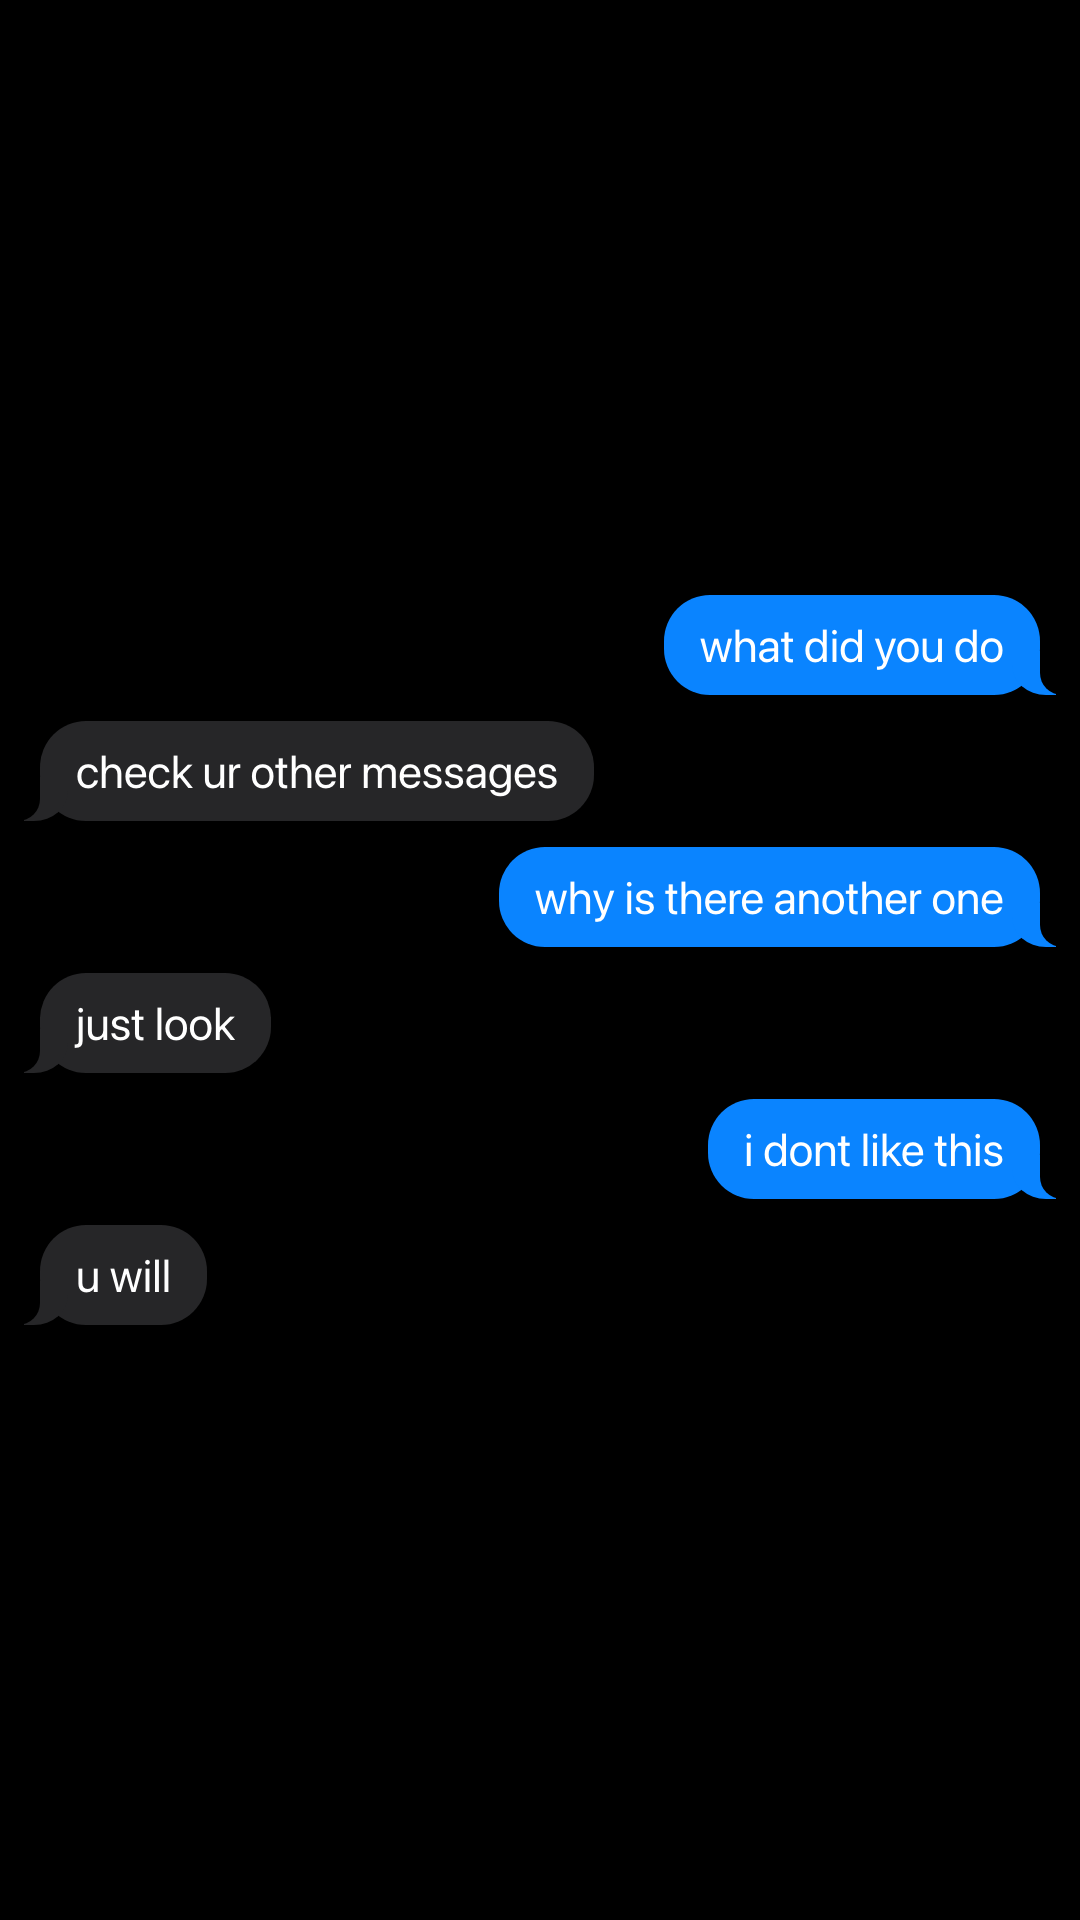
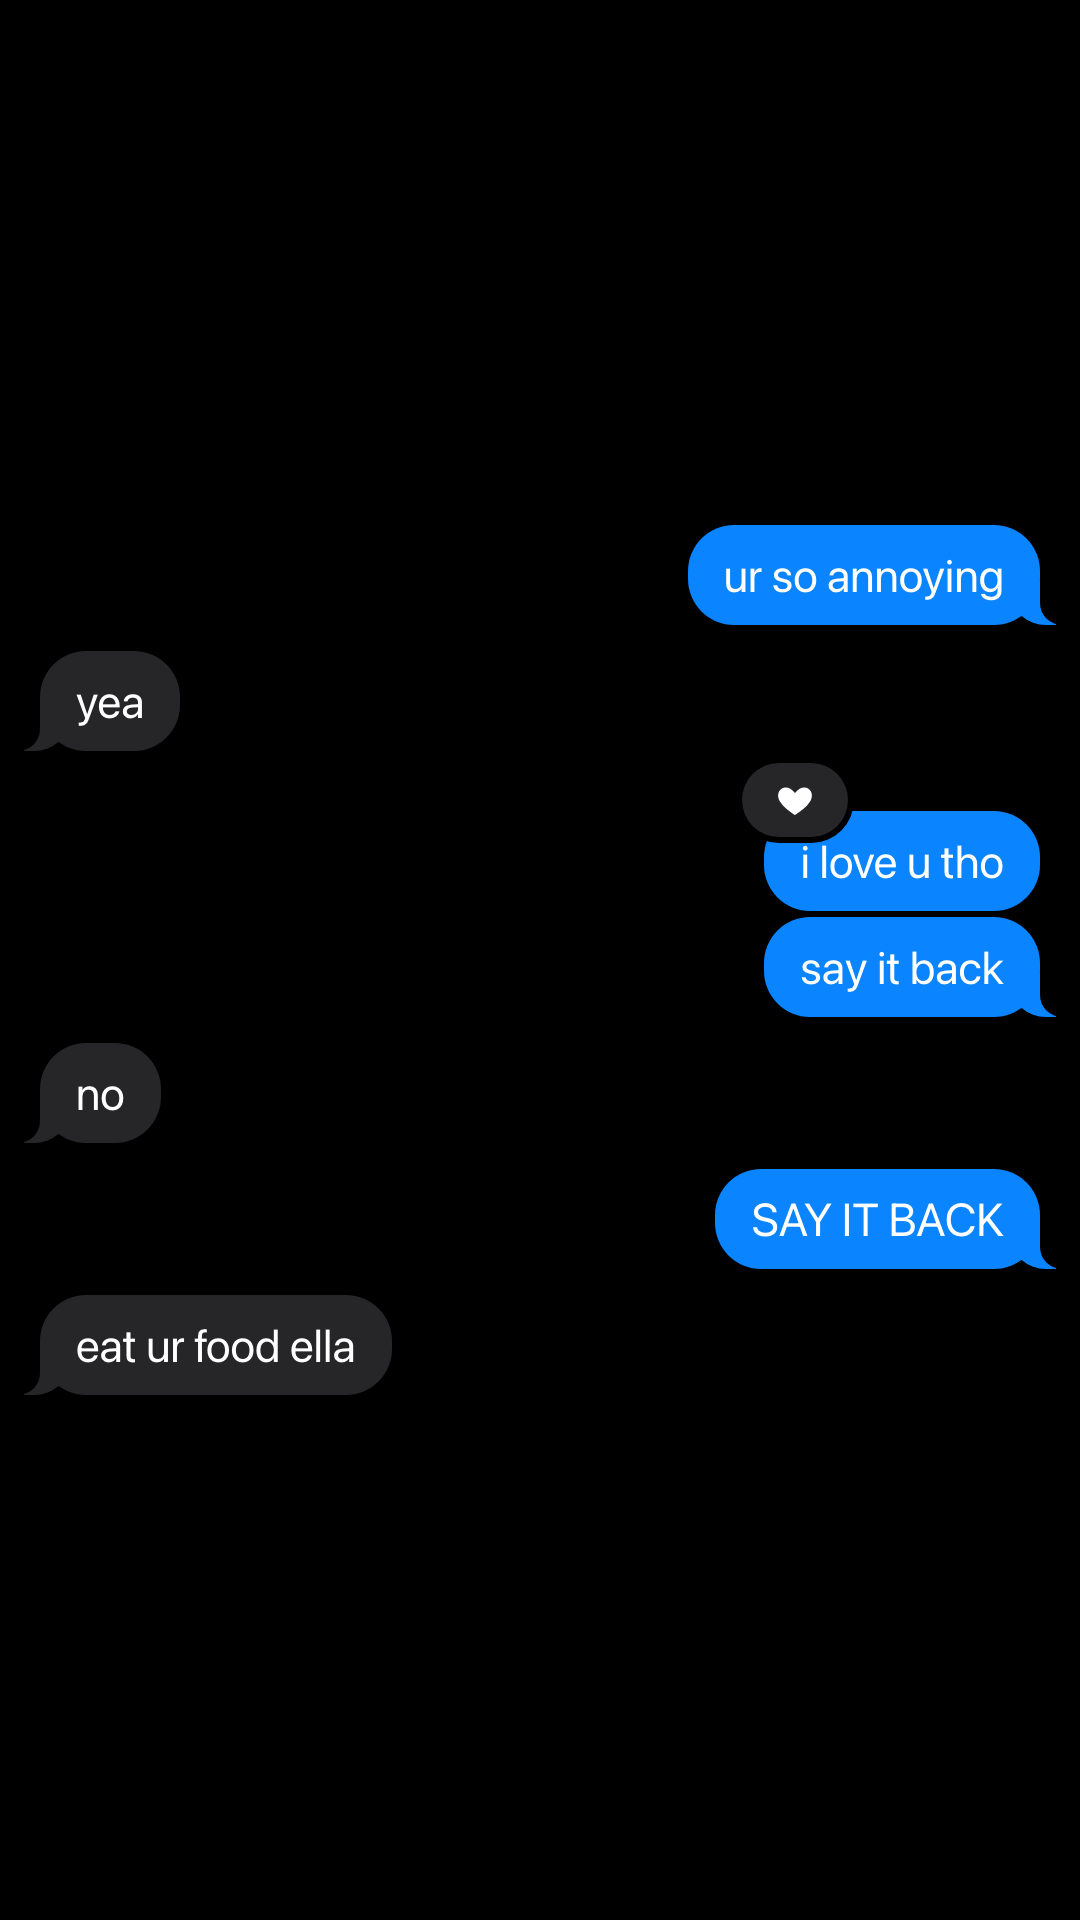
marketing: carousel 02 rewritten as a real couple
Twelve chat slides with the mundane care that makes it forwardable, a
letter written the way someone writes at 2am, and one slide where he
finally says what he means.

diff --git a/docs/marketing/tiktok-02/SCRIPT.md b/docs/marketing/tiktok-02/SCRIPT.md
@@ -26,32 +26,50 @@ Her: Ella. Him: never named, which is deliberate. People fill him in with someon
 
 | # | File | On screen | Text you put over it |
 |---|---|---|---|
-| 1 | `slide-01.png` | 23:41 "u asleep" · "yes" · "cool" · "so anyway" · "oh my god what" | `23:41 on a wednesday btw` |
-| 2 | `slide-02.png` | "do u remember what u said in the car in july" · "u said nobody ever remembers the small stuff" · "i remembered the small stuff" | |
-| 3 | `slide-03.png` | "check ur other messages" · "why is there another one" · "just look" · "u will" | |
-| 4 | `slide-04.png` | the link · "what is this" · "headphones" · "im scared" · "ur gonna cry tho" | |
-| 5 | yours | the night sky, five stars scattered, `For Ella` | `he made me a whole sky` |
-| 6 | yours | one star opened, a photo inside it, the caption showing | |
-| 7 | yours | half the stars joined up, the shape starting to appear | |
-| 8 | yours | the constellation complete, a heart in the stars | `it was a heart the whole time` |
-| 9 | yours | the message under the stars, the window seat line in frame | (nothing) |
-| 10 | yours | the surprise revealed: `top of the wardrobe. i kept them.` | `the shark hats. he kept the shark hats.` |
-| 11 | `slide-05.png` and `slide-06.png` | "im crying" · "did u take these on purpose" · "since july" · "SINCE JULY" · then 01:26 "it made a heart" · "i know" | `i didnt sleep` |
+| 1 | `slide-01.png` | 21:12 "i hate my job" · "im just gonna lie on the floor" · "ok" · "did u eat" | `he asks every single night` |
+| 2 | `slide-02.png` | "no" · "ella" · the cereal line · "im ordering u the thing u like" · "already did" | |
+| 3 | `slide-03.png` | "ur so annoying" · "i love u tho" (hearted) · "say it back" · "no" · "eat ur food ella" | |
+| 4 | `slide-04.png` | 22:40 "ur quiet" · "im doing something" · "nothing" · "go do ur skincare" | `he was doing something` |
+| 5 | `slide-05.png` | 23:41 "u asleep" · "yes" · "cool" · "so anyway" | |
+| 6 | `slide-06.png` | "u said nobody ever remembers the small stuff" · "i remembered the small stuff" | |
+| 7 | `slide-07.png` | "check ur other messages" · "just look" · "im scared" · "ur not scared" | |
+| 8 | `slide-08.png` | the link · "headphones" · "and dont skip any of it" · "ur gonna cry tho" | |
+| 9 | yours | the night sky, five stars, `For Ella` | `he made me a whole sky` |
+| 10 | yours | one star open, a photo inside it, the caption showing | |
+| 11 | yours | the dog photo star, caption `she picked you first` | `the DOG one` |
+| 12 | yours | the constellation complete, a heart in the stars | `it was a heart the whole time` |
+| 13 | yours | the letter under the stars | (nothing) |
+| 14 | yours | the surprise revealed: `top of the wardrobe. i kept them.` | `he kept the shark hats` |
+| 15 | `slide-09.png` | 00:12 "IM ACTUALLY CRYING" · "the dog one" · "i knew that would be the one" | |
+| 16 | `slide-10.png` | "did u take these on purpose" · "since july" · "u took photos of me for 3 months and said nothing" | |
+| 17 | `slide-11.png` | "why" · "because u said nobody remembers" · "i wanted to be someone who does" | (nothing. this is the one) |
+| 18 | `slide-12.png` | 01:26 "u kept the shark hats" · "top of the wardrobe" · "goodnight ella" (hearted) | |
 
-That is 12 if you post both closing slides, which you should. TikTok allows 35.
+Eighteen is a lot. If you want it shorter, cut 4, 7, 10 and 12 and it still reads. Never cut
+2, 11, 16 or 17.
 
-Never cover a bubble. The top third of every chat slide is empty on purpose.
+Never cover a bubble. The top of every chat slide is empty on purpose.
 
-## The two slides that do the work
+## The four slides that make people send it to someone
 
-**Slide 2 is the hook that is not a hook.** He is not being romantic, he is being annoying
-at midnight about something she said in a car three months ago. People stay because they
-want to know what he did, not because they are moved yet.
+**Slide 2 is the whole reason this gets forwarded.** Not the gift. He asks if she ate, she
+says she wasn't hungry, he knows exactly what she does at 11pm, and he orders the food
+before she can argue. That is the most repeatable act of love in the carousel and every girl
+watching knows whether her boyfriend does it. Do not cut this slide to save a swipe.
 
-**"since july" is the whole video.** Everything before it is setup and everything after it
-is payoff. It is proof he was collecting photographs of her for three months without telling
-her. That single line is what gets stitched, screenshotted, and sent to boyfriends. Put your
-`i didnt sleep` text on the slide after it, never on it.
+**Slide 3 is why they believe the couple is real.** She says i love u, he hearts it and
+refuses to say it back, and then tells her to eat her food. That is love with the volume
+turned down, and it reads as a real relationship instead of a performance.
+
+**Slide 16, "since july".** He was photographing her for three months and said nothing.
+Everything before it is setup and everything after is payoff.
+
+**Slide 17 is the screenshot.** "because u said nobody remembers" / "i wanted to be someone
+who does". It is the only sentence in the entire carousel where he says what he means, and
+it lands because he has been dry for sixteen slides. Put nothing over it.
+
+The gap is the format. Boy who is funny and unbothered in the chat, quietly devastating in
+the gift, and only breaks once. Copy the gap, not the pink.
 
 ## The gift, which you shoot yourself
 
@@ -99,28 +117,49 @@ reaching for better-looking pictures. Every photo here is unposed and that is wh
 
 ### The message (paste as written)
 
-> You said in the car in July that nobody remembers the small stuff.
->
-> I remember the small stuff. I remember the dog picked you first and I wasn't surprised.
-> I remember you talked through an entire sunset and I didn't hear a word of it because I
-> was watching you do it. I remember the face mask that was going to take five minutes. I
-> remember what you said about always being the afterthought, and I have spent every day
-> since making sure you never have to think that again.
->
-> There are five here. There are hundreds. I picked the ones where you weren't posing.
->
-> I'm not good at saying this out loud, so I built it instead.
+Written the way someone actually writes at 2am, not the way a card is written. The awkward
+bits stay, they are what make it real.
 
-"I picked the ones where you weren't posing" is the line to leave alone. It is the reason
-the bad lighting and the tongue out and the sideways shark hats are the point rather than a
-compromise.
+> Ella.
+>
+> I'm not good at this so I'm going to write it how I'd say it.
+>
+> You said in the car in July that nobody remembers the small stuff. You said it like it was
+> normal. Like you'd already decided that's just how it is.
+>
+> I've been taking photos since that day. They're not good photos. You're not even looking in
+> most of them. That's on purpose. The ones where you're posing aren't you, and I wanted the
+> actual you.
+>
+> The dog picked you first. You talked through an entire sunset and I didn't hear a word of
+> it. The face mask that was going to take five minutes took an hour and I didn't mind. I
+> kept the shark hats.
+>
+> That's the small stuff. I remember all of it.
+>
+> I don't know how to say the rest out loud, so I made you this instead. Sorry it's not a
+> real present.
+>
+> It's 2am. Go to sleep.
+
+Three lines do the work and none of them are romantic on paper.
+
+"They're not good photos" is why the badly lit ones belong. "Sorry it's not a real present"
+is the line that will be quoted in the comments, because he spent three months on it and
+still thinks it doesn't count. "It's 2am. Go to sleep." is him going straight back to being
+dry, one line after the most open thing he has ever written.
+
+Do not add "I love you" anywhere in it. He never says it in the chat and he does not say it
+here. That is the point, and it is the thing people will argue about in the comments.
 
 ## Caption, tags, sound
 
-Caption: `he said he'd been collecting them since july 😭 i havent slept`
+Caption: `he said he'd been collecting them since july and i havent slept since 😭 send this
+to urs`
 
-No question in this one. Carousel 01 asks "am i crazy" because it wants an argument. This
-one wants envy, and envy comments arrive on their own.
+Those last three words are doing more work than the whole video. "Send this to urs" turns a
+view into a share, and a share is worth about ten likes. Carousel 01 asks "am i crazy"
+because it wants an argument. This one asks for a forward.
 
 Tags: `#fyp #loveletter #romance #boyfriend #digitalgift #longdistance #fyou`
 
@@ -143,10 +182,12 @@ when the person reading it is also awake and shouldn't be.
   checked`. Never argue further.
 - **Do not thank people for compliments.** The account is a girl who got a gift, not a brand.
   Every reply should sound like her.
+- **When someone says their boyfriend would never**, reply `mine wouldn't have either 2
+  years ago`. It turns envy into hope, and hope is what gets sent on.
 
 ## Files in this folder
 
-- `slide-01.png` to `slide-06.png` — the six text screenshots, 1080×1920
+- `slide-01.png` to `slide-12.png` — the twelve text screenshots, 1080×1920
 - `script.json` — their source. Re-render with
   `node scripts/tiktok-slides.mjs docs/marketing/tiktok-02/script.json docs/marketing/tiktok-02`
 
